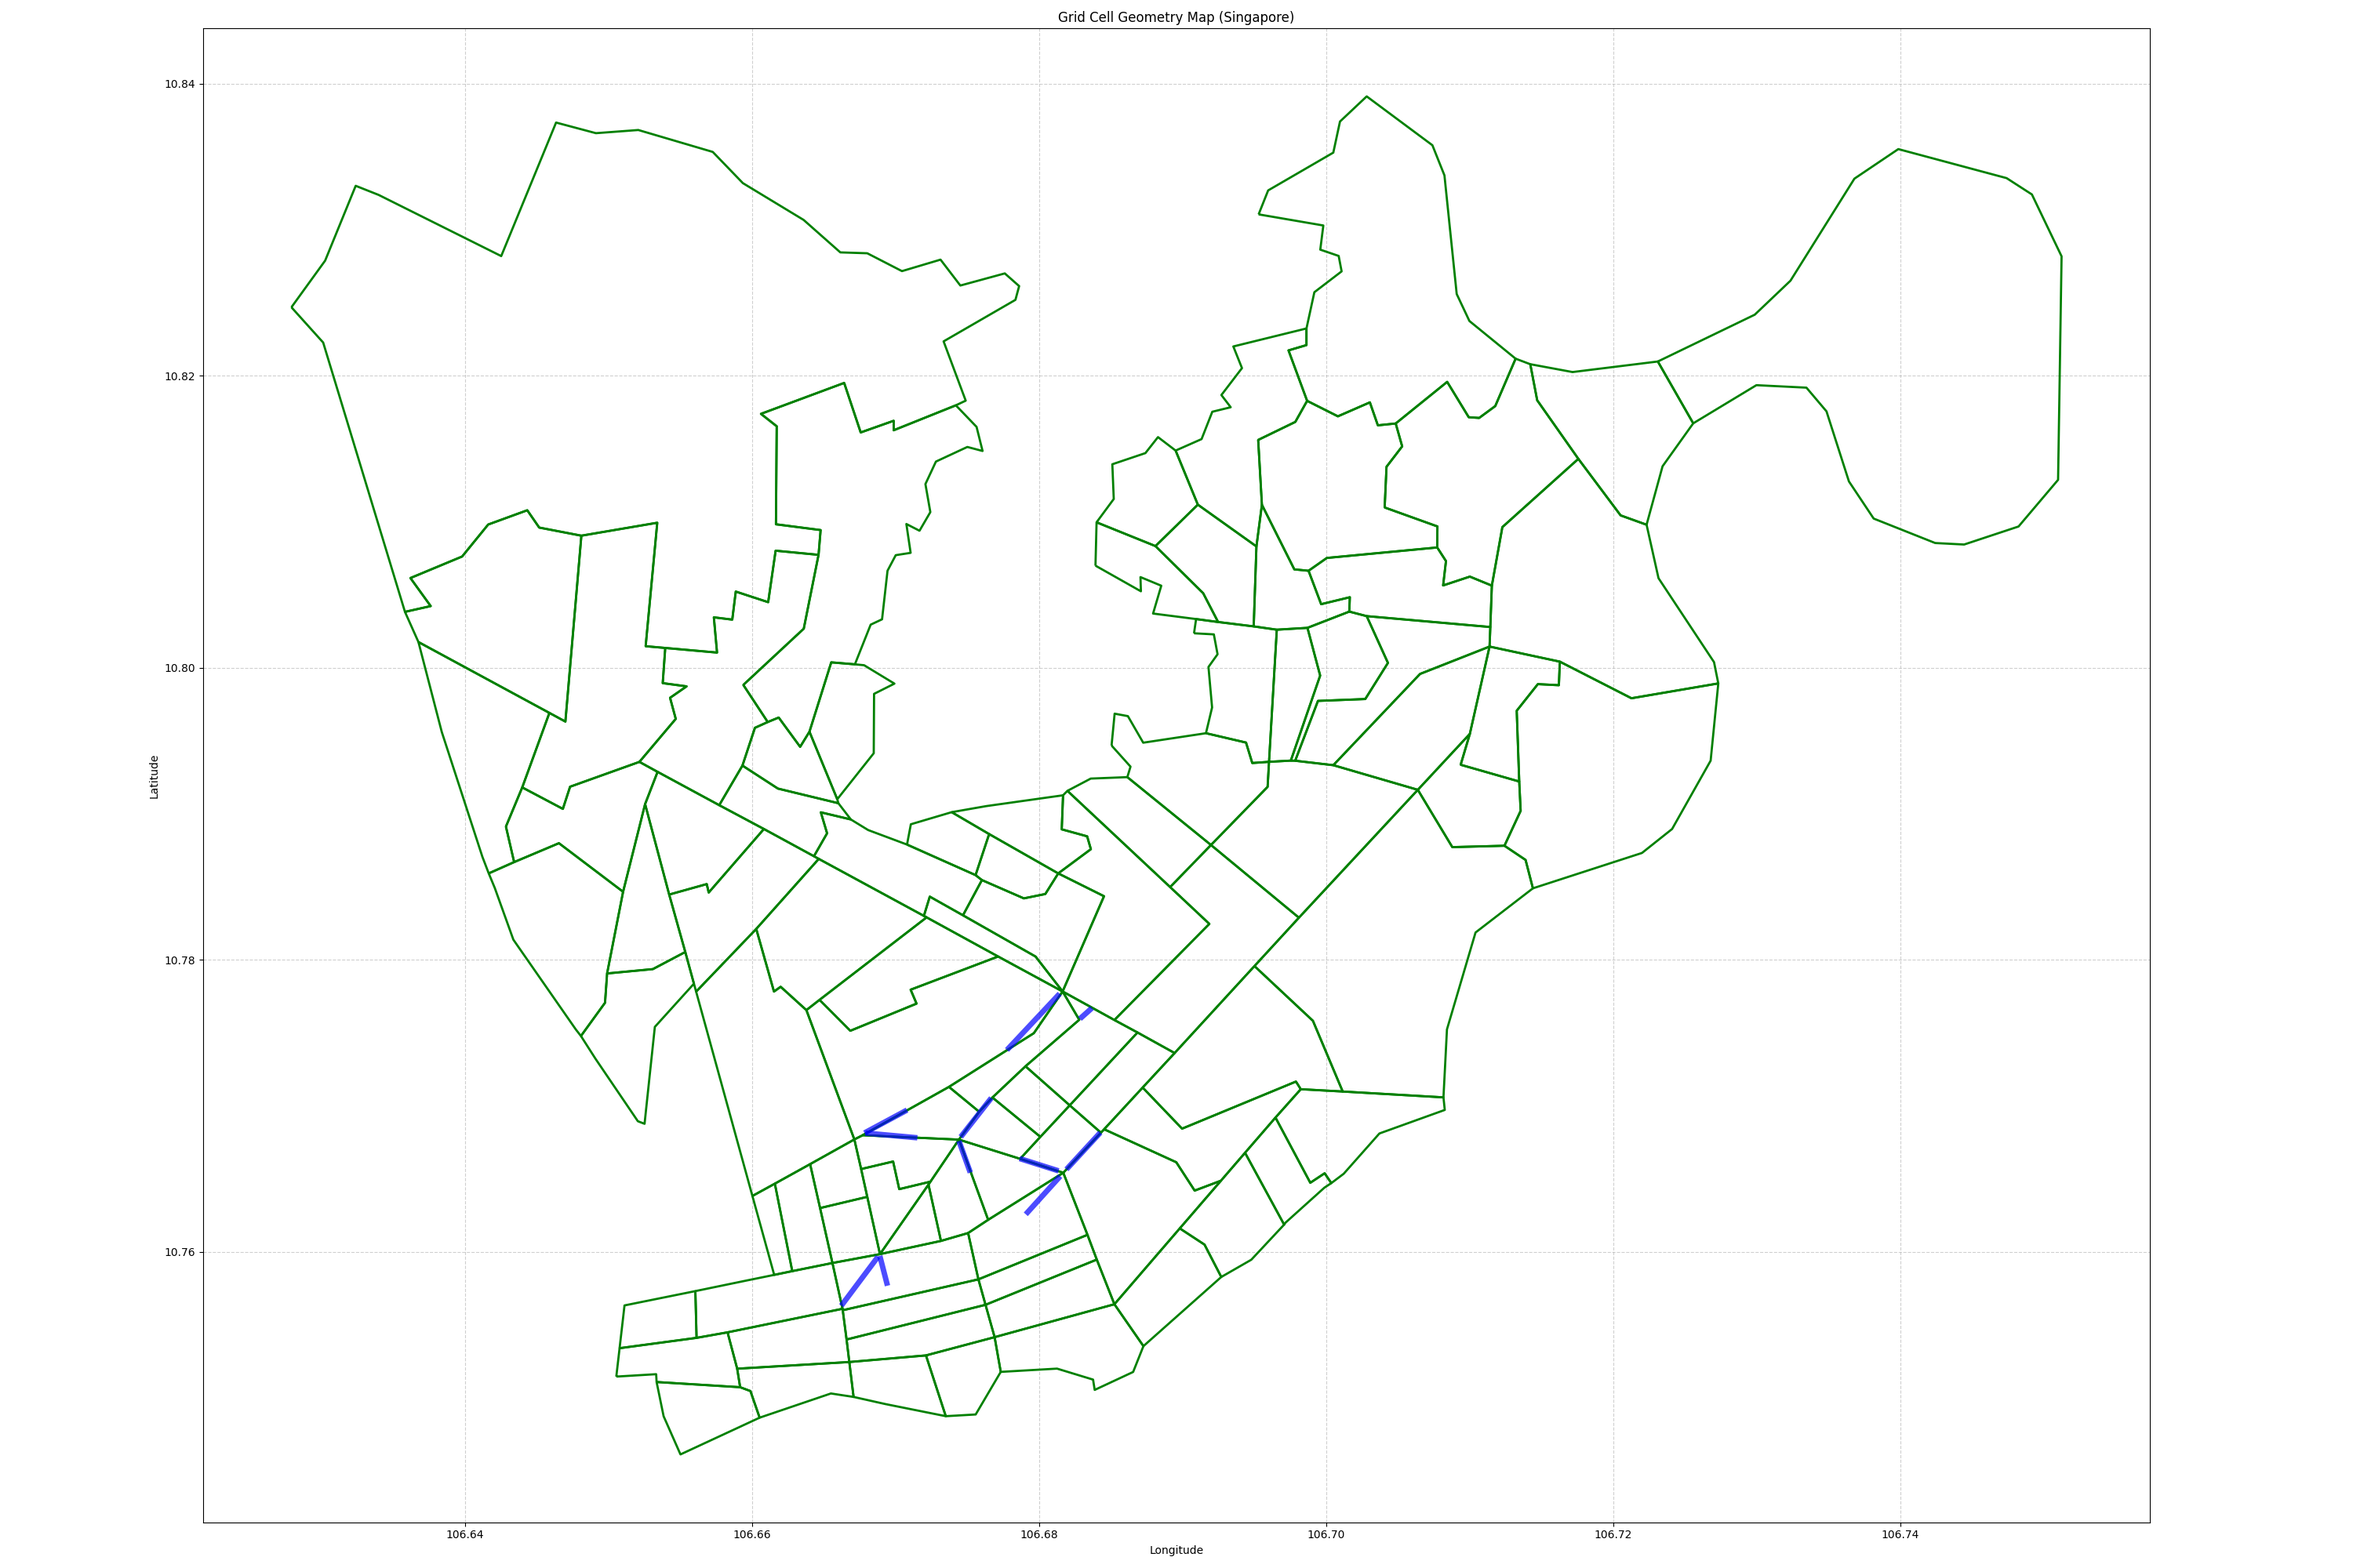
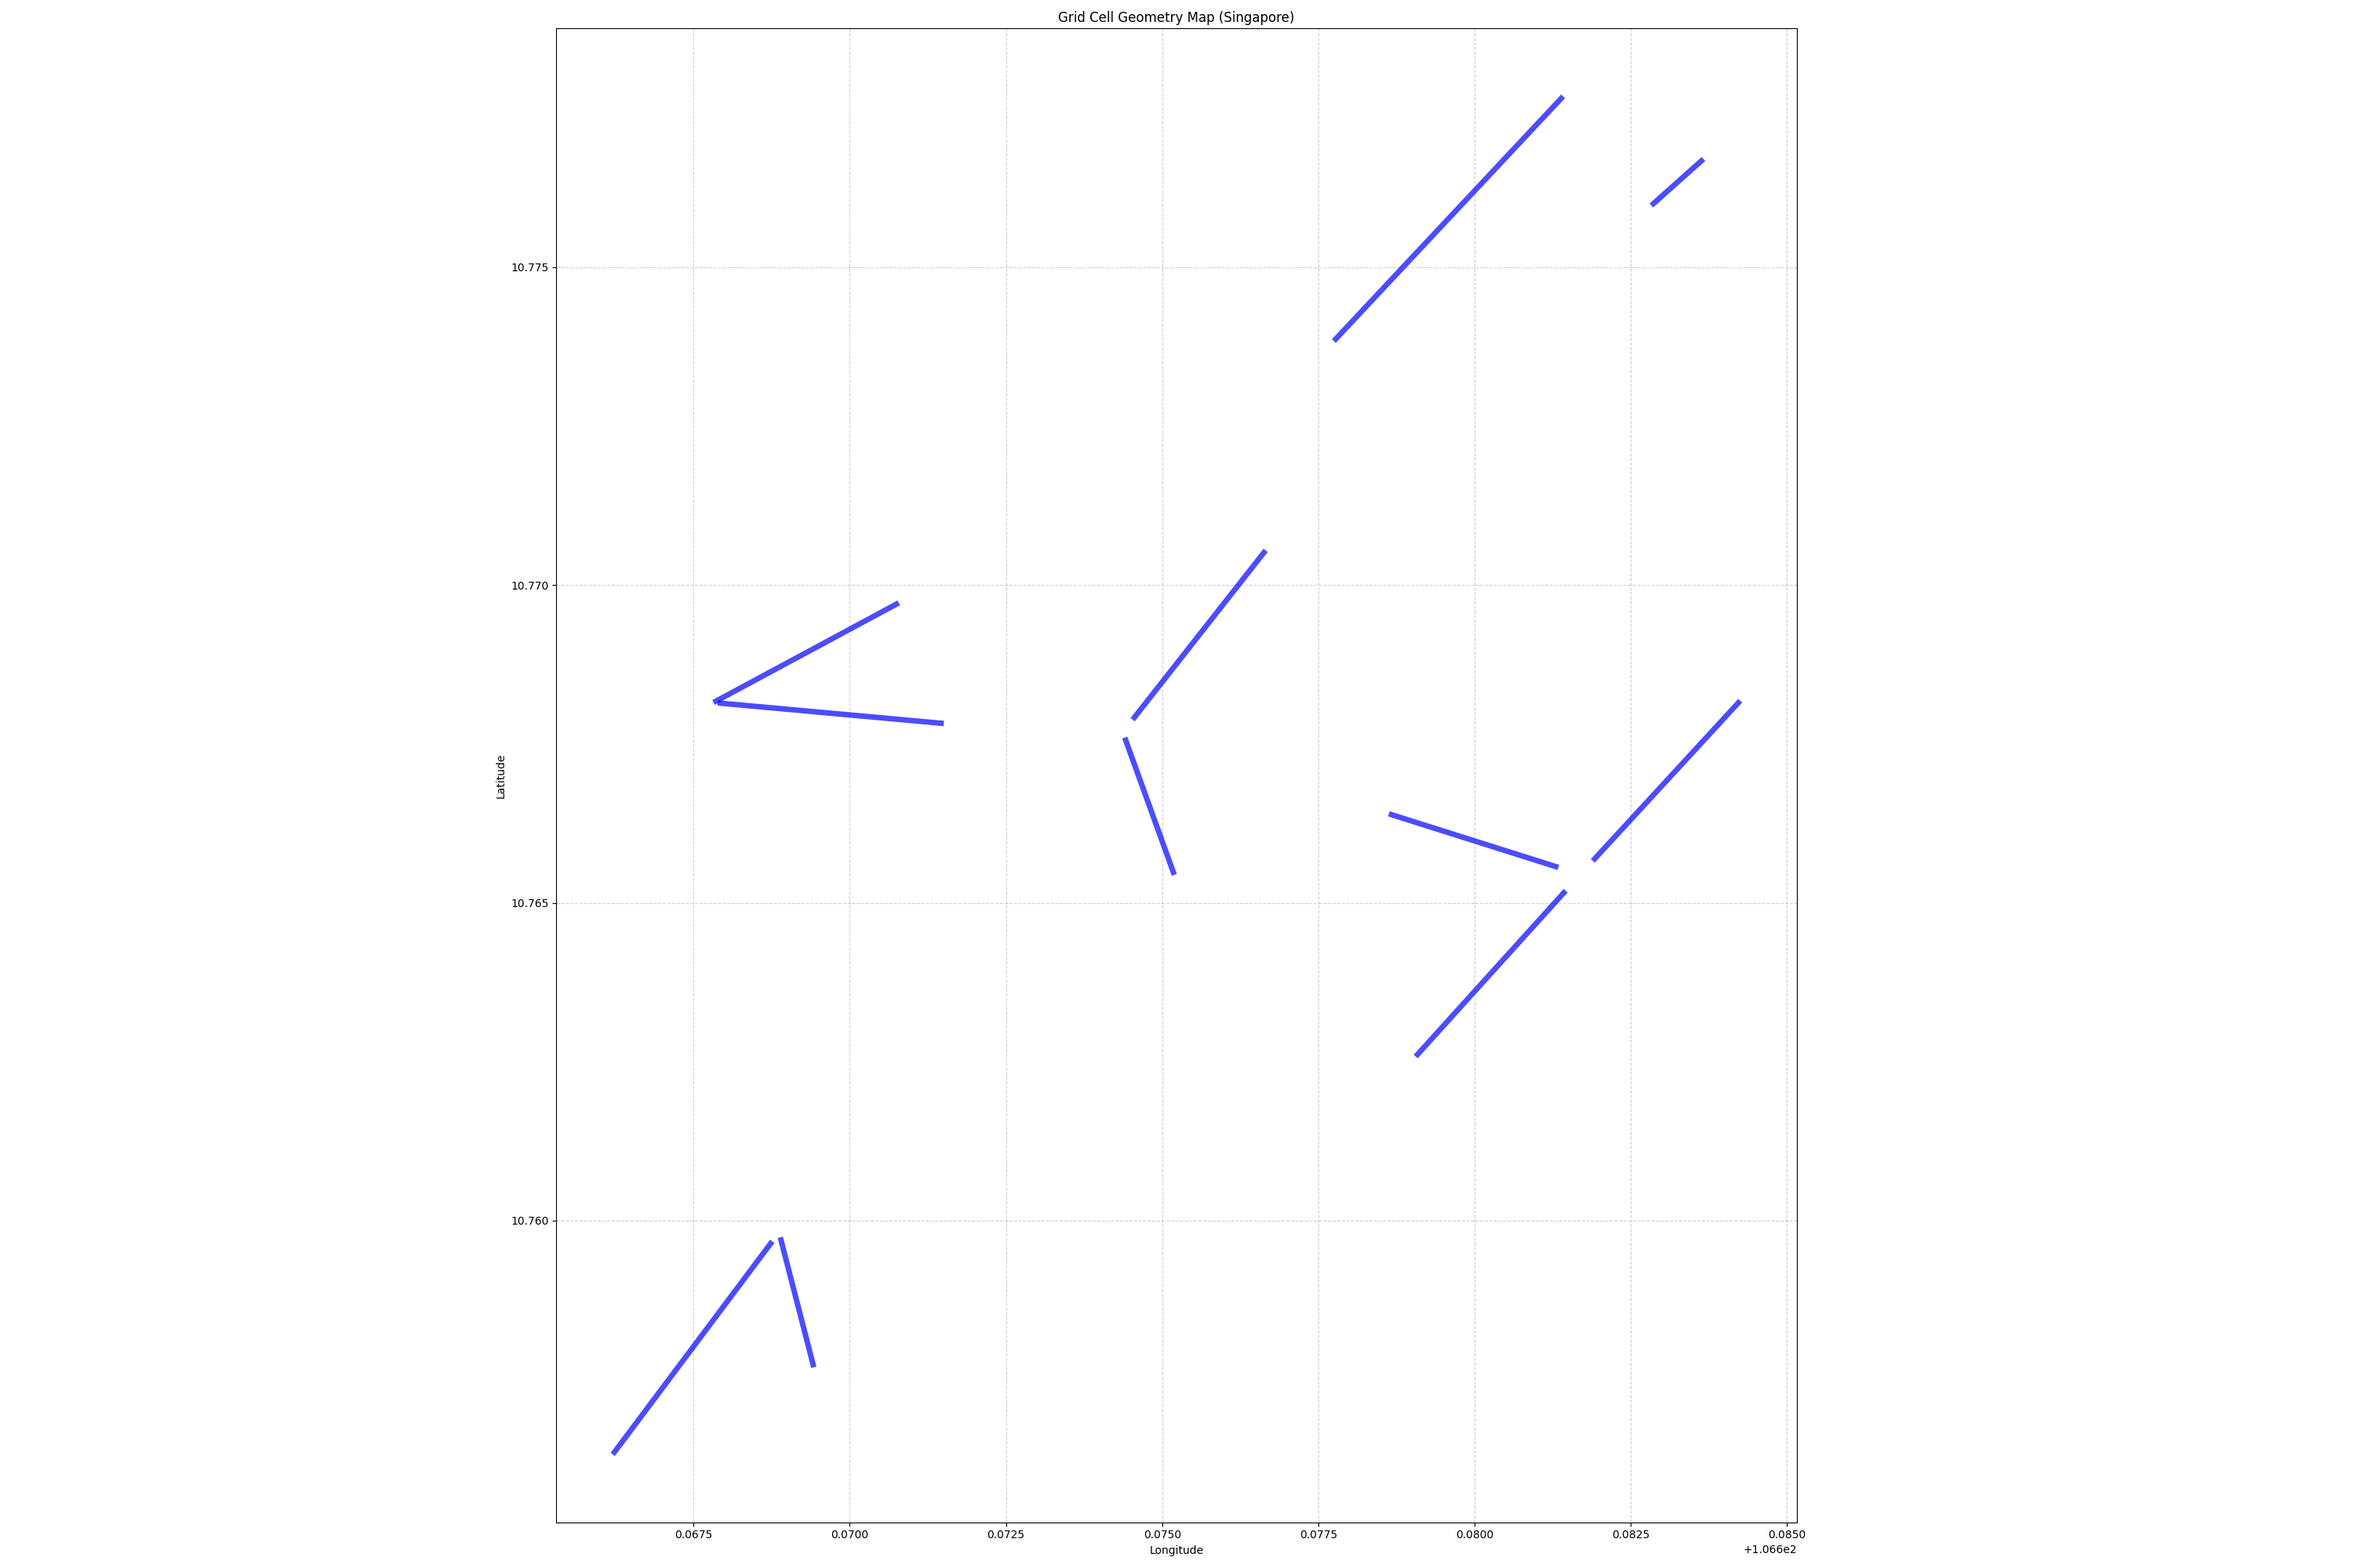
update data

diff --git a/subzone-cell/visualize_ward.py b/subzone-cell/visualize_ward.py
@@ -39,7 +39,7 @@ print(gdf_edges.head())
 # Create Plot
 fig, ax = plt.subplots(figsize=(30, 20))
 # Plot city boundary
-hcmc_boundary.boundary.plot(ax=ax, color='green', linewidth=2)
+# hcmc_boundary.boundary.plot(ax=ax, color='green', linewidth=2)
 gdf_edges.plot(ax=ax, color='blue', linewidth=5, alpha=0.7)
 # Label each cell
 # for x, y, label in zip(gdf["centroid"].x, gdf["centroid"].y, gdf.cell_id):
